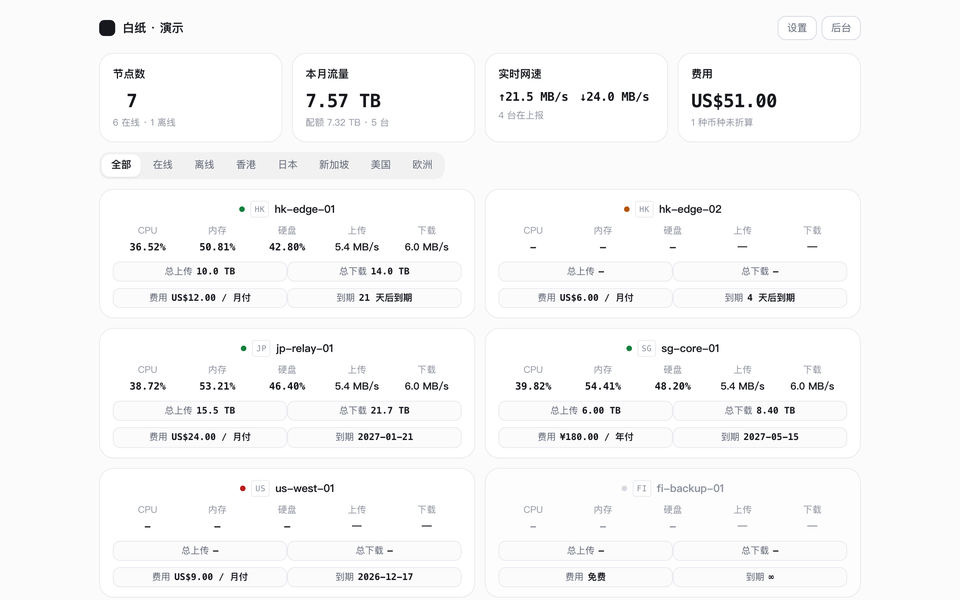
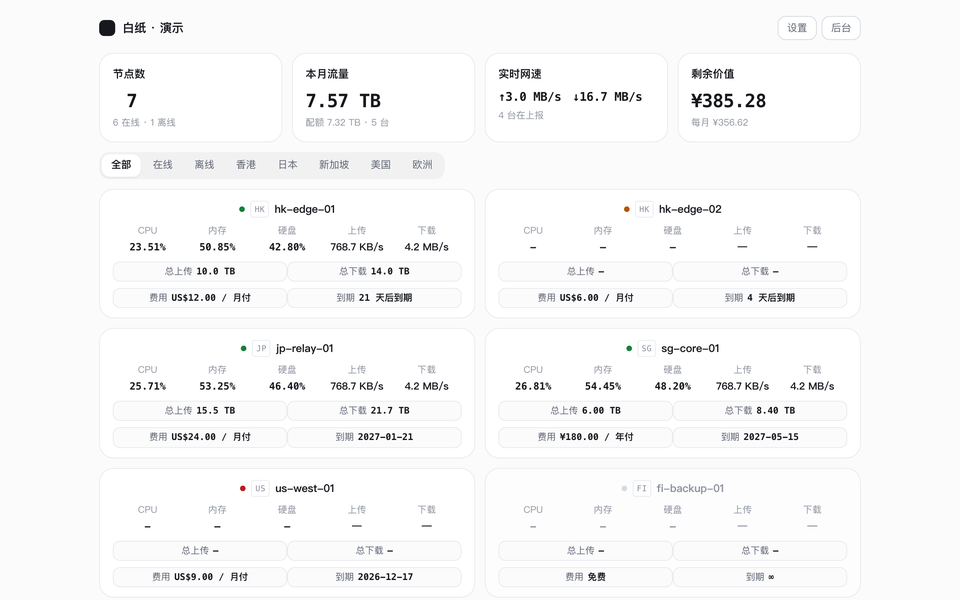
顶部第四格改为剩余价值
原来大字是每月费用、小字才是剩余价值。总览要回答的是这批机器还值多少，
而剩余价值本身已经把每份套餐跑了多久算进去了；月费退到小字，它只是
剩余价值正在被消耗的速度。同时更新预览图。

diff --git a/src/components/Summary.tsx b/src/components/Summary.tsx
@@ -190,34 +190,34 @@ function Cost({ nodes }: { nodes: Node[] }) {
   if (bills.length === 0) {
     const free = nodes.length > 0 && nodes.every((n) => monthlyCost(n) === 0)
     return (
-      <Tile label="费用">
+      <Tile label="剩余价值">
         <div className="v" data-quiet="true">
           {free ? "免费" : "—"}
         </div>
         <div className="sub">
-          {free ? (currency ? "全部免费" : "全部免费") : "未标价"}
+          {free ? "全部免费" : "未标价"}
         </div>
       </Tile>
     )
   }
 
-  // One currency: the figure the tile is about. Several, and no conversion
-  // asked for: they are shown as separate figures rather than joined by a slash,
-  // because "US$51.00 / ¥15.00" reads as one amount written two ways instead of
-  // two amounts that nothing has added up.
-  const sorted = currency ? bills : [...bills].sort((a, b) => b[1].per - a[1].per)
+  // Residual value, not the monthly bill: "what is this fleet still worth" is
+  // the question a total over machines answers, and it is the only figure that
+  // already accounts for how far each plan has run. The monthly rate is shown
+  // underneath, because it is what the residual is being spent down towards.
+  const sorted = currency ? bills : [...bills].sort((a, b) => b[1].left - a[1].left)
   const [code, at] = sorted[0]
   const rest = sorted.length - 1
 
   const sub = currency
-    ? `剩余价值 ${money(at.left, currency)}`
+    ? `每月 ${money(at.per, currency)}`
     : rest > 0
       ? `${rest} 种币种未折算`
-      : `剩余价值 ${money(at.left, code)}`
+      : `每月 ${money(at.per, code)}`
 
   return (
-    <Tile label="费用">
-      <div className="v">{money(at.per, code)}</div>
+    <Tile label="剩余价值">
+      <div className="v">{money(at.left, code)}</div>
       <div className="sub">{sub}</div>
     </Tile>
   )
